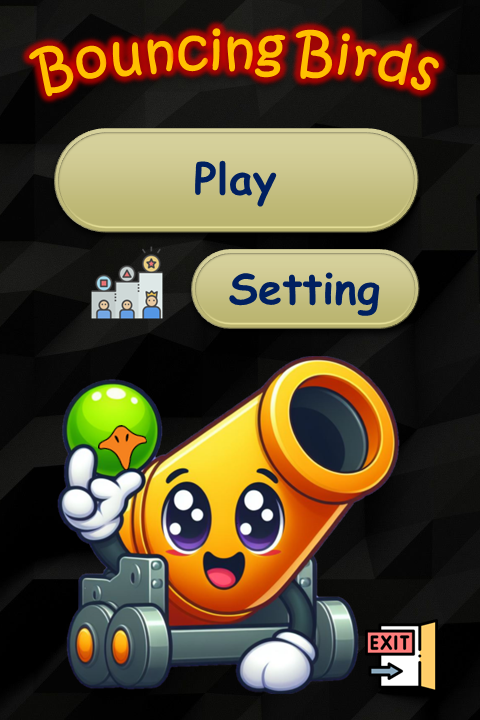
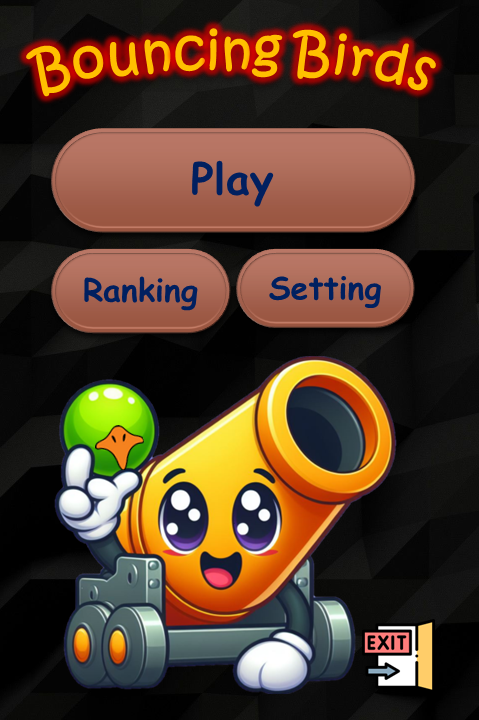
funcs

diff --git a/core/front-end.h b/core/front-end.h
@@ -20,7 +20,7 @@ void ShowLevel(SDL_Renderer* renderer,int level_id);
 void DrawShootLine(SDL_Renderer* renderer, double mouseX, double mouseY);
 void ShowWin(SDL_Renderer* renderer);
 void ShowGameOver(SDL_Renderer* renderer);
-void ShowPoping(SDL_Renderer* renderer,double x,double y,int color);
+void ShowPoping(SDL_Renderer* renderer,double x,double y);
 void ShowFalling(SDL_Renderer* renderer,double x,double y,int color);
 
 
@@ -433,13 +433,15 @@ void ShowLevel(SDL_Renderer* renderer,int level_id){
     DrawWithoutPresent(renderer,devil_img,devil_rect,WIDTH/2-24,BASE_Y+80-24 ,48,48);
     ShowCannon(renderer,mouse_x,mouse_y);
     stringRGBA(renderer,20,720-30, name.c_str(),255,255,255,255);
+    stringRGBA(renderer,20,720-20,("scores = "+to_string(score)).c_str(),255,255,255,255);
     if(timer_level){
-        tim = CountDown(5);
-        stringRGBA(renderer,480-155,720-30, tim.c_str(),255,255,255,255);
+        tim = CountDown(75);
+        stringRGBA(renderer,480-170,720-30, tim.c_str(),255,255,255,255);
         if(tim == "time = 00:00") timer_level=false;
     }
     DrawWithoutPresent(renderer,devil_img,devil_rect,150,BASE_Y+100-24 ,36,36);
     DrawWithoutPresent(renderer,pause_b_img,pause_b_rect,420,650,45,50);
+    ShowFalling(renderer,100,100,2);
     if(isGameOver()){
     
         score = 0;
@@ -566,6 +568,8 @@ void ShowGameOver(SDL_Renderer* renderer){
     mouse_x = e->button.x;
     mouse_y = e->button.y;
     Draw(renderer,go_img,win_rect,0,0,WIDTH,HEIGHT);
+    stringRGBA(renderer,60,60,("scores = "+to_string(score)).c_str(),255,255,255,255);
+
     if( e -> type == SDL_QUIT){
         show_game_over=false;
     }

diff --git a/main.cpp b/main.cpp
@@ -171,7 +171,13 @@ int main(int argc, char* argv[]) {
             PlayMusic(btn_sd,25,0,btn_sd_c);
             Modes(renderer);
         }
-        if((menu_show) && (mouse_x>185)&&(mouse_x<420)&&(mouse_y>250)&&(mouse_y<330) && (e->button.button == SDL_BUTTON_LEFT && e->type == SDL_MOUSEBUTTONDOWN)){
+        if((menu_show) && (mouse_x>237)&&(mouse_x<413)&&(mouse_y>250)&&(mouse_y<330) && (e->button.button == SDL_BUTTON_LEFT && e->type == SDL_MOUSEBUTTONDOWN)){
+            e->type = 0;
+            setting=true;
+            PlayMusic(btn_sd,25,0,btn_sd_c);
+            Setting(renderer);
+        }
+        if((menu_show) && (mouse_x>50)&&(mouse_x<228)&&(mouse_y>250)&&(mouse_y<330) && (e->button.button == SDL_BUTTON_LEFT && e->type == SDL_MOUSEBUTTONDOWN)){
             e->type = 0;
             setting=true;
             PlayMusic(btn_sd,25,0,btn_sd_c);

diff --git a/core/back-end.h b/core/back-end.h
@@ -24,6 +24,7 @@ bool ballCollision();
 bool isGameOver() {
     if (is_timer_on)
         if (tim=="time = 00:00"){
+            tim = "";
             return true;
         }
 
